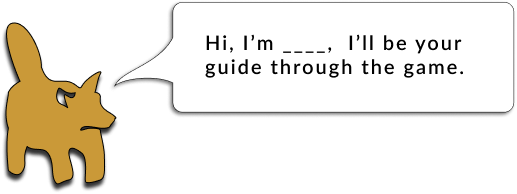
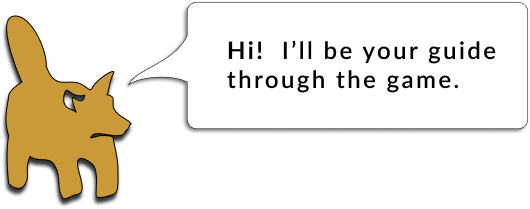
add content for 'Overview' & 'Instructions' pages (context for how the game is supposed to be played/ scavenger hunt instructions)

Changed region(s): [[0.0, 0.0, 1.0, 0.9897], [0.0, 0.6186, 0.0309, 0.6804]]

diff --git a/client/src/pages/Overview.js b/client/src/pages/Overview.js
@@ -13,13 +13,16 @@ const Overview = () => {
     //Overview of game
     <Container>
       <Row xs={1} className="overview site-content">
-        <Col xs={11} md={{span: 8, offset: 3}} className="speech-bubble speech-bubble-md">
+        <Col xs={11} md={{ span: 8, offset: 3 }} className="speech-bubble speech-bubble-md">
           <h1 className="display-5">Welcome!</h1>
           <p>
-            Some text describing what the game is about and how it works. North
-            American / Native American art. Will take you through 4 geographic
-            regions, and their art by looking for artifacts in the
-            museum...etc..etc.
+            Welcome to the North American Art Scavenger Hunt! Today we'll learn about native North American art while exploring the museum!
+          </p>
+          <p>
+            The game is intended to be played in person at the SRJC Multi-Culural Museum.
+          </p>
+          <p>
+            We'll look at art from across America, from California, the Pacific Northwest, the Southwest, and the Great Plains.
           </p>
 
           <h2 className="display-5 d-inline-block">Let's test your skills!</h2>
@@ -30,13 +33,13 @@ const Overview = () => {
       </Row>
 
       <Row>
-        <Col xs={{span: 6, offset: 1}} className="mascot-container">
+        <Col xs={{ span: 6, offset: 1 }} className="mascot-container">
           <img className="img-fluid" src={mascotLarge} alt="mascot animal illustration" />
         </Col>
       </Row>
     </Container>
-      
- 
+
+
   );
 };
 

diff --git a/client/src/pages/Instructions.js b/client/src/pages/Instructions.js
@@ -18,23 +18,19 @@ const Instructions = () => {
         <Col xs={11} className="speech-bubble speech-bubble-fullscreen">
           <h1 className="display-5">Instructions</h1>
           <p>
-            Some text describing how the game works. Each item in the museum has a
-            small number next to it. We will show you a picture of an art piece,
-            and you'll look around to find it in the museum (along with its
-            number.)
+            Follow the prompts on the next page to find the artifacts in the museum.
           </p>
           <img className="img-fluid"
             src={potNumbers}
             alt="illustration of dragging the number onto the image of a piece of pottery"
           />
           <p>
-            <strong>Drag and Drop</strong> the item's number onto its picture when
-            you find it in the real-life exhibit.
+            <span className="bold-text">Tap or Click</span> on the right answer when you find the item in the real life exhibit.
           </p>
 
           <img className="img-fluid"
             src={mascotBubble}
-            alt='little mascot says "Hi my name is __, Ill be your guide through the game"'
+            alt='little mascot says "Hi, Ill be your guide through the game"'
           />
         <Row>
         <Col xs={6}>

diff --git a/client/src/pages/About.js b/client/src/pages/About.js
@@ -55,7 +55,7 @@ const About = () => {
                 <div>
                   {/*This is for Erin*/}
                   <h3>Erin Potter</h3>
-                  <p><small><em>Web Developer | Designer</em></small></p>
+                  <p><small><em>Front End Developer | Designer</em></small></p>
                   <p>
                     <button>LinkedIn</button>
                     <button>GitHub</button>
